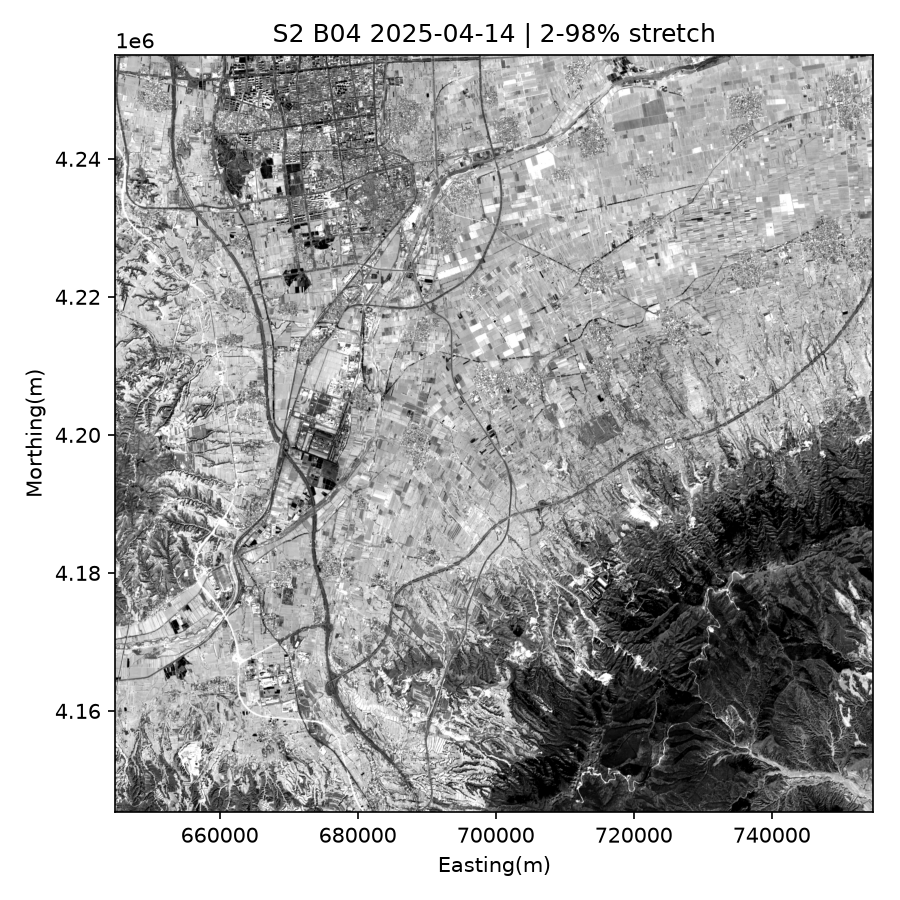
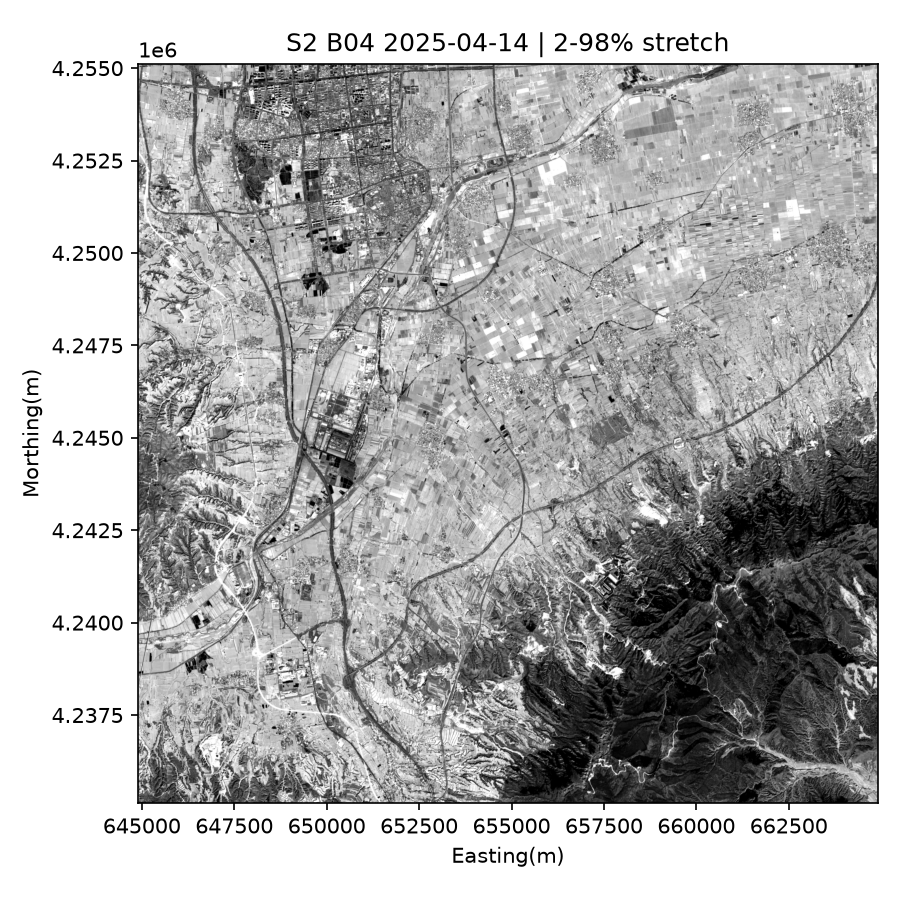
feat: d04 aoi crop and scl cloud mask

diff --git a/src/d04_mask.py b/src/d04_mask.py
@@ -1,0 +1,71 @@
+# 做云掩膜
+# 读 SCL → 标出坏像元 → 把标记铺到 B04 的网格 → 在 B04 上把坏位置挖空 → 存文件
+
+import json
+import numpy as np
+import rasterio
+from rasterio.windows import from_bounds
+from rasterio.warp import reproject, Resampling
+
+with open("data/processed/aoi.json", encoding="utf-8") as f:
+    aoi = json.load(f)
+
+# 公共路径存成变量，用来拼子路径；r 前缀防止反斜杠被当转义符
+base = r"D:\rs-taiyuan\data\raw\S2_20250414.SAFE\GRANULE\L2A_T49SFC_A042329_20250414T032306\IMG_DATA"
+
+#1. 读 SCL（20m）并按 AOI 裁剪
+#Scene Classification Layer，场景分类图层——是 Sentinel-2 L2A 产品里 ESA 附赠的一个“地物标签图”
+
+#f-string 拼路径：{base} 替换成变量值，\\ 是“要一个反斜杠”（因为字符串里单个 \ 是转义符，写两个才表示字面反斜杠）
+scl_path = f"{base}\\R20m\\T49SFC_20250414T031519_SCL_20m.jp2"  #地物分类文件
+with rasterio.open(scl_path) as scl_src:
+    win = from_bounds(aoi["left"], aoi["bottom"], aoi["right"], aoi["top"], scl_src.transform)
+    win = win.round_offsets().round_lengths()
+    scl = scl_src.read(1,window = win)
+    scl_transform = scl_src.window_transform(win)
+    scl_crs = scl_src.crs   #坐标系
+
+# “左边两个变量接一个函数的两个返回值”叫解包
+# 把数组里所有出现过的值挑出来、去重、从小到大排序。加了 return_counts=True 之后，它不只返回值，还同时返回每个值出现了几次
+values, counts = np.unique(scl, return_counts=True)
+print("SCL类别:", dict(zip(values, counts)))  #先把values,counts拉链式配对，再变成一个字典
+
+
+#2. 生成20m的坏像元掩膜
+#对 scl 的每个像元判断“值在不在这个名单里”，返回同形状的布尔数组：云、云影、饱和、雪的位置是 True；就是昨天ndvi > 0.3那种布尔掩膜
+bad = np.isin(scl, [1,3,8,9,10,11])  #根据地类分类，这几个是有云的
+print("SCL中坏像元比例:", bad.mean()*100, "%")
+
+#3. 把掩膜重采样到 B04 的 10m 网格
+b04_path = "data/processed/S2_20250414_B04_aoi.tif"  #d03_crop.py用aoi裁剪出来的
+with rasterio.open(b04_path) as src:
+    b04 = src.read(1).astype("float32")  #因为下一步要往数组里塞 NaN，而原来的 uint16 装不下 NaN
+    profile = src.profile.copy()
+
+#先造一个和 B04 同尺寸的全零数组，作为目标画布，重采样结果会填进来
+mask10 = np.zeros(b04.shape, dtype=np.uint8)
+#把 500×500 的掩膜“铺”到 1000×1000 的网格上
+
+print("scl_crs =", repr(scl_crs))
+reproject(
+    source = bad.astype(np.uint8), #源是地物分类这个组
+    destination = mask10,
+    #下面两行说明源数据在地球的什么位置、怎么摆放
+    src_transform = scl_transform,
+    src_crs = scl_crs,
+    dst_transform = profile["transform"],
+    dst_crs = profile["crs"],
+    resampling = Resampling.nearest,  #用最近邻法，连续量（高程、温度）才用双线性或三次
+)
+
+print("10m 网格上被掩掉的像元比例:", mask10.mean()*100, "%")
+
+# 4. 掩膜并写出:把原来图像有云的地方写成NAN再输出
+b04[mask10==1] = np.nan #一行完成掩膜：mask10 == 1 生成布尔掩膜，把 B04 上对应位置全部赋成 NaN
+# nodata: np.nan 告诉文件“NaN 代表无效”，这样 GIS 软件打开时会正确识别
+profile.update({"driver": "GTiff", "dtype": "float32", "nodata": np.nan, "compress": "lzw"})
+
+with rasterio.open("data/processed/S2_20250414_B04_clean.tif", "w", **profile) as dst:
+    dst.write(b04,1)
+
+print("saved data/processed/S2_20250414_B04_clean.tif")

diff --git a/src/d04_crop.py b/src/d04_crop.py
@@ -1,0 +1,45 @@
+# 用aoi把10m波段裁剪齐
+
+import json
+import rasterio
+from rasterio.windows import from_bounds
+
+with open("data/processed/aoi.json", encoding="utf-8") as f:   #encoding：告诉Python 用什么字符编码读这个文件
+    aoi = json.load(f)  #把文件内容解析成python的字典
+
+base = r"D:\rs-taiyuan\data\raw\S2_20250414.SAFE\GRANULE\L2A_T49SFC_A042329_20250414T032306\IMG_DATA\R10m"
+bands = {
+    "B02": "T49SFC_20250414T031519_B02_10m.jp2",
+    "B03": "T49SFC_20250414T031519_B03_10m.jp2",
+    "B04": "T49SFC_20250414T031519_B04_10m.jp2",
+    "B08": "T49SFC_20250414T031519_B08_10m.jp2",
+}
+
+#循环波段组合里的各个波段
+for name, fname in bands.items():  #name是键，fname是值
+    with rasterio.open(f"{base}\\{fname}") as src:
+        # 你手里是地理范围（left/bottom/right/top，单位是米），rasterio 需要的是窗口（从第几行第几列开始、多少行多少列）。
+        # 它用 transform 的逆运算来换算;必须按 left, bottom, right, top（西、南、东、北） 的顺序传
+        win = from_bounds(aoi["left"], aoi["bottom"], aoi["right"], aoi["top"], src.transform)
+        # round_offsets() 把起点四舍五入成整数，round_lengths() 把宽高也取整，两步合起来就把窗口“对齐到像元格”
+        win = win.round_offsets().round_lengths()  #后一步在前一步的结果上再调用
+        #aoi是地理坐标，是m，所以要先变成像素坐标，以此来转换
+
+        #这里就和昨天的d03_crop.py一样了，裁剪小窗口
+        data = src.read(1, window=win)  #在这里裁剪
+        transform = src.window_transform(win)
+
+        profile = src.profile.copy()
+        profile.update({
+            "driver":"GTiff",
+            "width":data.shape[1],
+            "height":data.shape[0],
+            "transform":transform,
+            "compress":"lzw",
+        })
+
+    out = f"data/processed/S2_20250414_{name}_aoi.tif"
+    with rasterio.open(out, "w", **profile) as dst:
+        dst.write(data, 1)
+    print(name, data.shape, "->", out)
+

diff --git a/src/d03_crop.py b/src/d03_crop.py
@@ -1,5 +1,4 @@
-# b04 的形状会是多大？
-# 如果 transform 不改，直接用 src.transform 写进新文件，会出什么问题？
+# 练习：将全景影像裁一小块出来
 
 import rasterio
 from rasterio.windows import Window
@@ -7,12 +6,13 @@ from rasterio.windows import Window
 img_path = r"D:\rs-taiyuan\data\raw\S2_20250414.SAFE\GRANULE\L2A_T49SFC_A042329_20250414T032306\IMG_DATA\R10m\T49SFC_20250414T031519_B04_10m.jp2"
 
 with rasterio.open(img_path) as src:
+    # 读进来是像素格子，没有经纬度地址，要用transform实时计算各个格子的经纬度地址
     col_off = (src.width - 2000) // 2
     row_off = (src.height - 2000) // 2
-    window = Window(col_off, row_off, 2000, 2000)  #在正中央构建了一个长款各为2000的窗口
+    window = Window(col_off, row_off, 2000, 2000)  #在正中央构建了一个长款各为2000像素的窗口
 
     b04 = src.read(1, window = window)  #将文件里对应区域读取出来
-    win_transform = src.window_transform(window)  #根据窗口在原图中的位置，算出自己的地理变换
+    win_transform = src.window_transform(window)  #根据窗口在原图中的位置，算出这一小块的地理变换
 
     print("window shape:", b04.shape)
     print("window transform:", win_transform)
@@ -20,13 +20,17 @@ with rasterio.open(img_path) as src:
     profile = src.profile.copy()  #参数卡片
     profile.update({
             "driver": "GTiff",
-            "width:": b04.shape[1],
-            "height:": b04.shape[0],
+            "width": b04.shape[1],
+            "height": b04.shape[0],
             "transform": win_transform,
             "compress": "lzw", #无损压缩
     })
 
     print(src.profile)
+
+    # 检查尺寸对不对
+    print("profile 宽高:", profile["width"], profile["height"])
+    print("b04 形状:", b04.shape)
 
 
 with rasterio.open("data/processed/d03_b04_crop.tif", "w", **profile) as dst:  #“w”写入模式

diff --git a/src/d04_aoi.py b/src/d04_aoi.py
@@ -1,0 +1,35 @@
+#确定好项目的研究范围和坐标：10kmx10km
+
+import json
+import rasterio
+
+crop_path = "data/processed/d03_b04_crop.tif"  #d03剪出来的范围稍大的那一块
+full_path = r"D:\rs-taiyuan\data\raw\S2_20250414.SAFE\GRANULE\L2A_T49SFC_A042329_20250414T032306\IMG_DATA\R10m\T49SFC_20250414T031519_B04_10m.jp2"
+
+with rasterio.open(crop_path) as src:
+    b = src.bounds
+
+    print("bounds:", b)  #自己看一下bounds什么形式
+
+    left = b.left + 2000
+    bottom = b.bottom + 2000
+    aoi = {
+        "left":left,
+        "bottom":bottom,
+        "right": left + 10000,
+        "top": bottom + 10000,
+    }
+
+with rasterio.open(full_path) as src:
+    fb = src.bounds
+    inside = (aoi["left"] >= fb.left and aoi["right"] <= fb.right   #为什么一个取值用#，一个用点号
+              and aoi["top"] <= fb.top and aoi["bottom"] >= fb.bottom) #为什么打括号？
+    print("AOI在整景范围内:", inside)
+
+km2 = (aoi["right"] - aoi["left"]) * (aoi["top"] - aoi["bottom"]) / 1e6
+print("AOI面积", km2, "km²")
+
+with open("data/processed/aoi.json", "w", encoding="utf-8") as f:
+    json.dump(aoi, f, indent=2)
+
+print("saved data/processed/aoi.json")

diff --git a/src/d04_compare.py b/src/d04_compare.py
@@ -1,0 +1,30 @@
+import numpy as np
+import rasterio
+import matplotlib.pyplot as plt
+
+with rasterio.open("data/processed/S2_20250414_B04_aoi.tif") as src:
+    raw = src.read(1).astype(float)
+    extent = (src.bounds.left, src.bounds.right, src.bounds.bottom, src.bounds.top)
+
+with rasterio.open("data/processed/S2_20250414_B04_clean.tif") as src:
+    clean = src.read(1)
+
+lo, hi = np.percentile(raw, [2, 98])
+stretch = lambda a: np.clip((a - lo) / (hi - lo), 0, 1)
+
+cmap = plt.get_cmap("gray").copy()
+cmap.set_bad("red")   # 被掩掉的像元显示为红色
+
+fig, axes = plt.subplots(1, 2, figsize=(11, 5))
+axes[0].imshow(stretch(raw), cmap="gray", extent=extent, origin="upper")
+axes[0].set_title("Original B04")
+axes[1].imshow(stretch(clean), cmap=cmap, extent=extent, origin="upper")
+axes[1].set_title("Cloud-masked (red = invalid)")
+
+for ax in axes:
+    ax.set_xlabel("Easting (m)")
+axes[0].set_ylabel("Northing (m)")
+
+plt.tight_layout()
+plt.savefig("outputs/d04_mask_compare.png", dpi=150)
+print("saved outputs/d04_mask_compare.png")

diff --git a/src/d03_preview.py b/src/d03_preview.py
@@ -1,3 +1,5 @@
+#将d03_crop.py裁剪出来的成图看一下
+
 import numpy as np
 import rasterio
 import matplotlib.pyplot as plt
